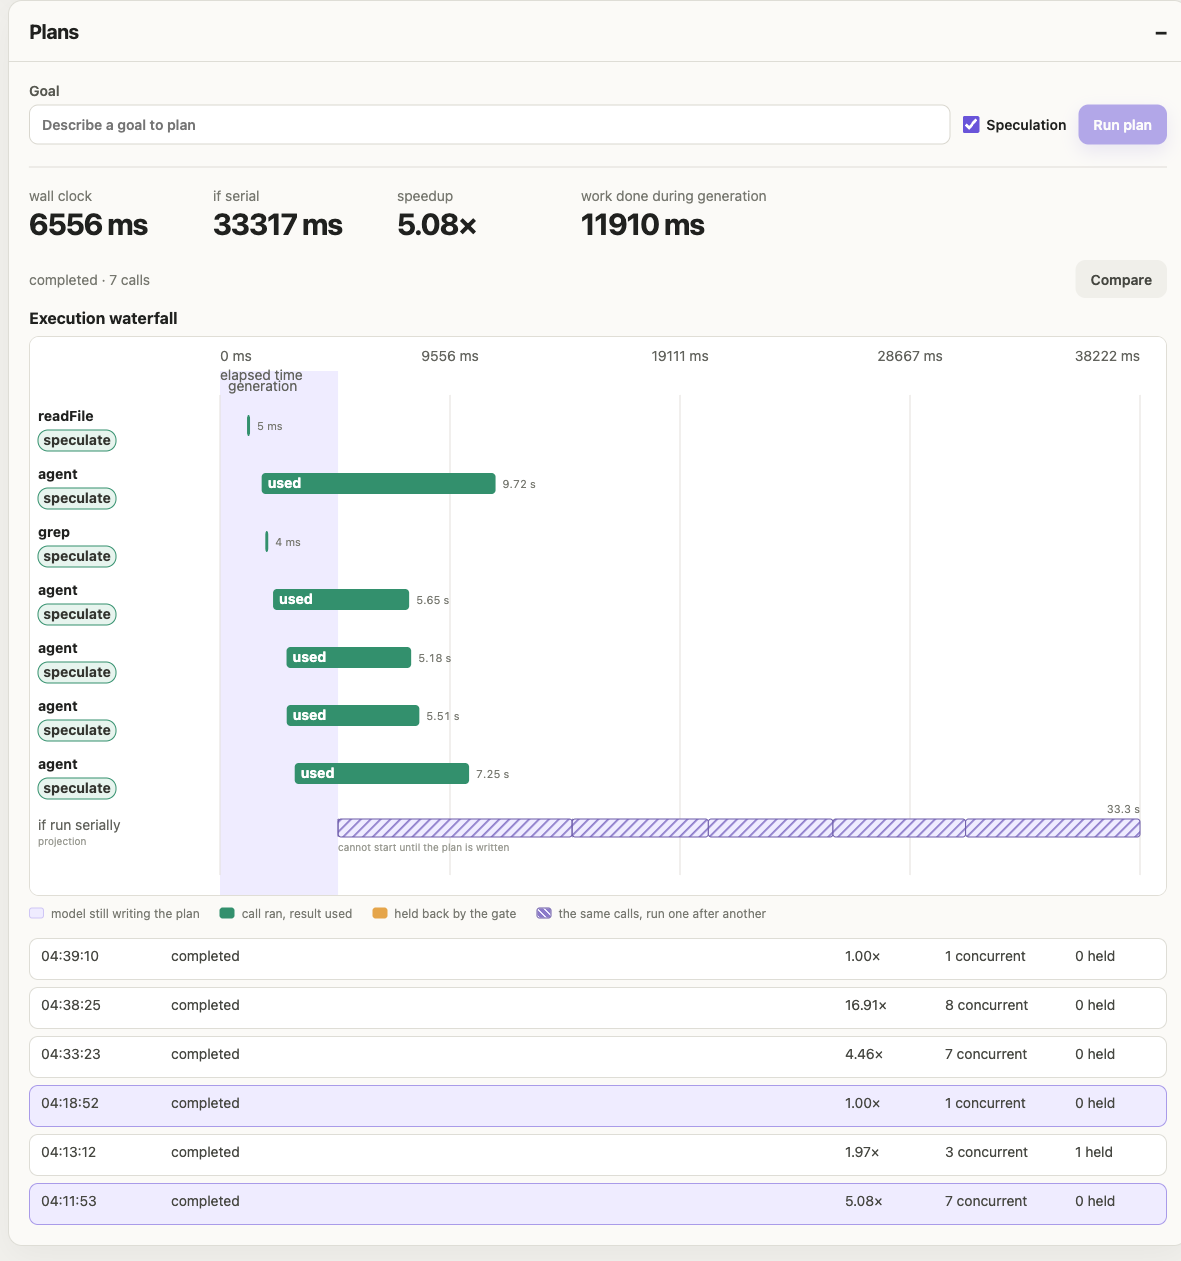
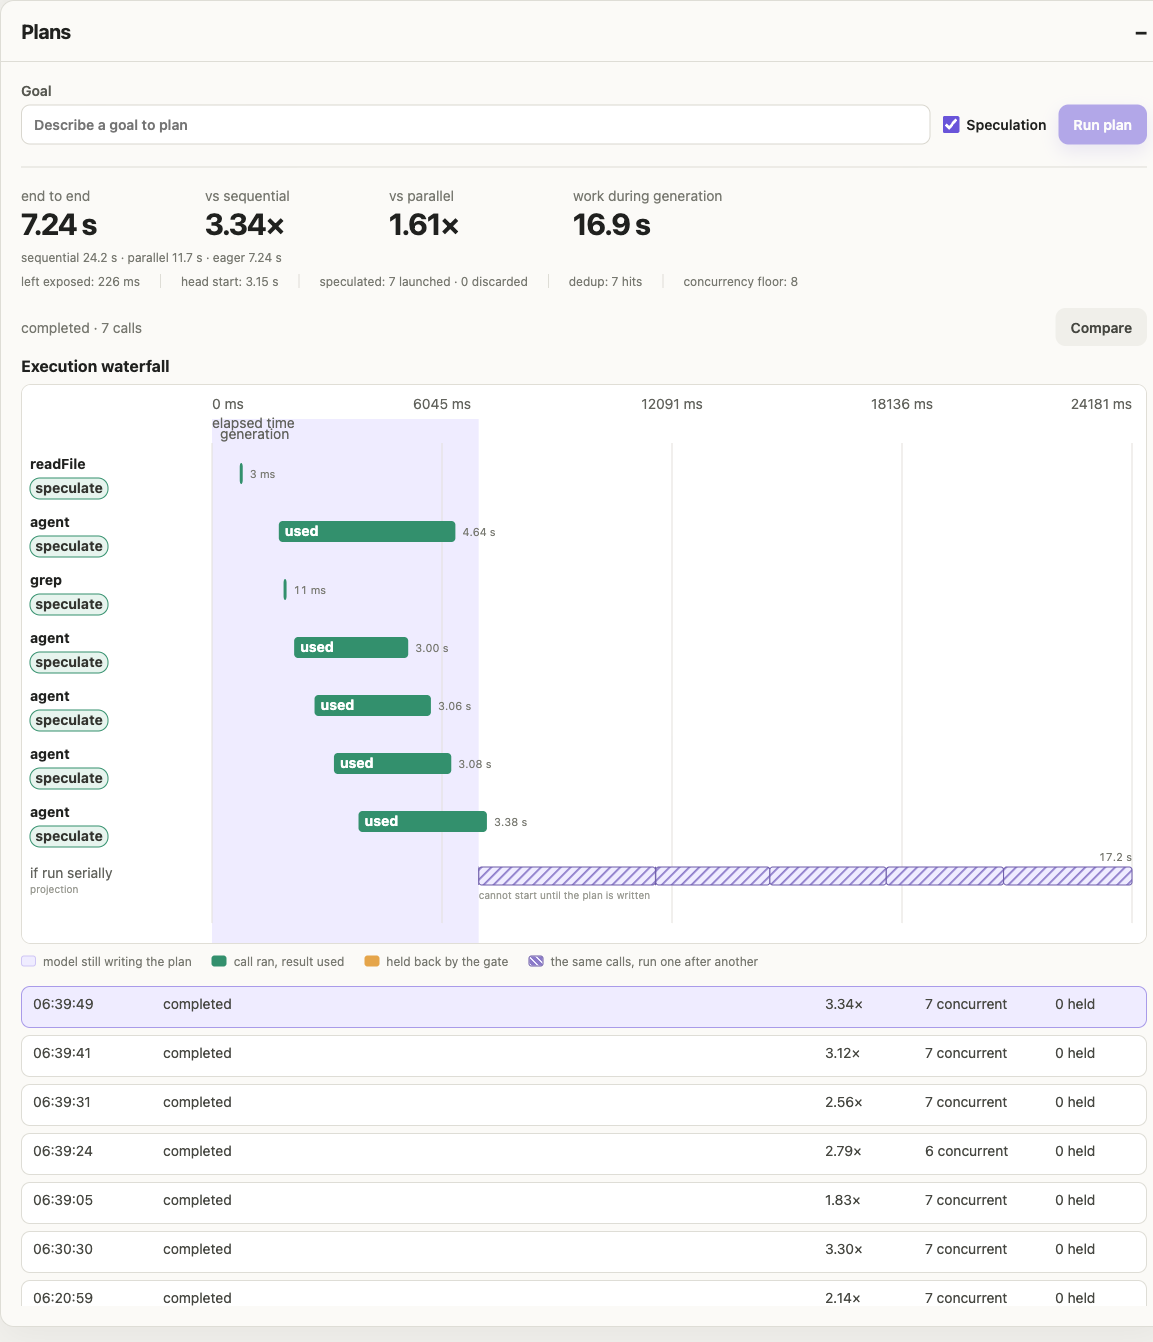
docs: requote every number against the corrected metric
Measured results replaced with a fresh n=15 benchmark across three plan
shapes, reported end to end against both a sequential and a parallel
baseline. Median 2.19x vs sequential, 1.30x vs parallel.

The vs-parallel median lands on CloudThinker's published 1.28x from their
open eager-tools benchmark, measured here on real agent turns rather than
a paced synthetic stream. Their comparison is cited.

The chain shape now leads the discussion: concurrency contributes nothing
there, sequential and parallel are within five milliseconds, and the layer
still returns 1.28x from the early start alone.

Screenshot regenerated against the new headline.

diff --git a/README.md b/README.md
@@ -9,7 +9,7 @@
   <img alt="112 server + 10 web tests" src="https://img.shields.io/badge/tests-122%20passing-33906d?style=flat-square&labelColor=20211f">
   <img alt="TypeScript" src="https://img.shields.io/badge/typescript-5-6954d9?style=flat-square&labelColor=20211f">
   <img alt="Node 22+" src="https://img.shields.io/badge/node-22%2B-6954d9?style=flat-square&labelColor=20211f">
-  <img alt="median 3.27x" src="https://img.shields.io/badge/median-3.27%C3%97%20faster-33906d?style=flat-square&labelColor=20211f">
+  <img alt="median 2.19x end to end" src="https://img.shields.io/badge/median-2.19%C3%97%20end--to--end-33906d?style=flat-square&labelColor=20211f">
   <img alt="MIT" src="https://img.shields.io/badge/license-MIT-33906d?style=flat-square&labelColor=20211f">
 </p>
 
@@ -105,7 +105,7 @@ to be taken.
 <sub>The indigo band is the model still generating; every bar begins inside it. The hatched strip is
 a projection, not measured work: the same calls laid end to end, starting where generation ends
 because without speculation nothing can run until the plan exists.
-<b>6,556 ms against 33,317 ms of work, with 11,910 ms of it executed during generation.</b></sub></p>
+<b>7.24 s end to end against 24.2 s sequential and 11.7 s parallel, with 16.9 s of tool work executed during generation.</b></sub></p>
 
 <table>
 <tr>
@@ -114,8 +114,7 @@ because without speculation nothing can run until the plan exists.
 </tr>
 <tr>
 <td><b>Compare replays the plan for real.</b> The hatched strip is arithmetic; this is a measured
-serial run on the same axis. Above, everything overlapping and done in 6,556 ms. Below, the same
-calls as a staircase taking 13,785 ms. The two serial figures differ because an agent turn is not
+serial run on the same axis. Above, everything overlapping. Below, the same calls as a staircase. The two serial figures differ because an agent turn is not
 deterministic in effort, which is exactly why the measured run is worth having.</td>
 <td><b>A held call names its reason and its line.</b> <code>notify</code> is registered as
 non-speculatable, so the gate refuses to start it early and says so, with the argument class, the
@@ -147,24 +146,42 @@ Together these took the usable window from **0.46 s to 8.82 s**.
 
 ## Measured results
 
-Five plan shapes, three repetitions each, n=15 per arm, against a live model.
+Three plan shapes, five repetitions each, n=15, against a live model. Times are end to end,
+from the request arriving to the last call finishing.
 
-| shape | scheduler alone | with speculation | eager marginal |
-|---|---|---|---|
-| fan-out (4 independent) | 3.16× | **4.94×** | 1.56× |
-| loop (3, unrolled) | 1.95× | **3.38×** | 1.74× |
-| mixed (3 + 1 dependent) | 2.14× | **3.27×** | 1.53× |
-| two independent | 1.71× | **2.73×** | 1.59× |
-| **median** | **1.86×** | **3.27×** | **1.6–1.8×** |
+| shape | sequential | parallel | eager | vs sequential | vs parallel |
+|---|---|---|---|---|---|
+| mixed (readFile + grep + 4 agents) | 26.0 s | 17.0 s | **12.0 s** | 2.19× | 1.40× |
+| fan-out (4 independent agents) | 17.5 s | 8.6 s | **6.9 s** | 2.67× | 1.25× |
+| chain (3 dependent calls) | 6.3 s | 6.3 s | **4.9 s** | 1.28× | 1.28× |
+| **median, all 15 runs** | | | | **2.19×** | **1.30×** |
 
-Median **1,104 ms** of critical-path head start and **4,079 ms** of tool work executed during
-generation.
+Ranges across the fifteen runs: 1.09–3.78× against sequential, 1.09–1.48× against parallel.
+Median non-overlapped execution latency — the work left exposed after generation ends — is
+**2,979 ms**.
 
-**Two results worth more than the median.** `fan-out-4` reached **4.94× on a four-call plan**
-— above the arithmetic ceiling of 4× for pure parallelism, which is only possible because work
-began before the plan finished being written. And on a **genuine dependency chain**, where
-concurrency can contribute exactly nothing and correctly reports **1.00×**, speculation still
-moved **2,208 ms** of work into the generation window.
+**Why two baselines.** *Sequential* is generation plus the sum of every call. *Parallel* is
+generation plus the longest call: tools concurrent with each other, but only starting once the
+model has stopped writing. Parallel is the honest comparison, because modern agent runtimes
+already dispatch a turn's tool calls concurrently. Eager is what this layer adds on top, by
+overlapping tools with the generation itself.
+
+That framing, and the `max(stream, max(tool))` model behind it, is the same one used by
+[CloudThinker's open eager-tools benchmark](https://github.com/cloudthinker-ai/eager-tools),
+which reports 1.20–1.50× against parallel across sixteen synthetic workloads, median 1.28×.
+The 1.30× median here is measured on real agent turns rather than a paced synthetic stream.
+
+**The shape that earns its place is the chain.** Three dependent calls, where concurrency can
+contribute nothing at all — sequential and parallel are within five milliseconds of each other —
+and the layer still returns 1.28×, entirely from starting the first call before the plan was
+finished being written.
+
+**What is deliberately not the headline.** An earlier version of this project divided the sum of
+call durations by the execution phase that follows generation. That denominator collapses when
+the calls finish inside the generation window, and on one unchanged goal it produced numbers from
+2.28× to 1118×. It measured whether the slowest call happened to overrun generation. The
+execution left exposed is now reported as a duration, where near-zero is the result rather than a
+divisor.
 
 ## Run it
 
